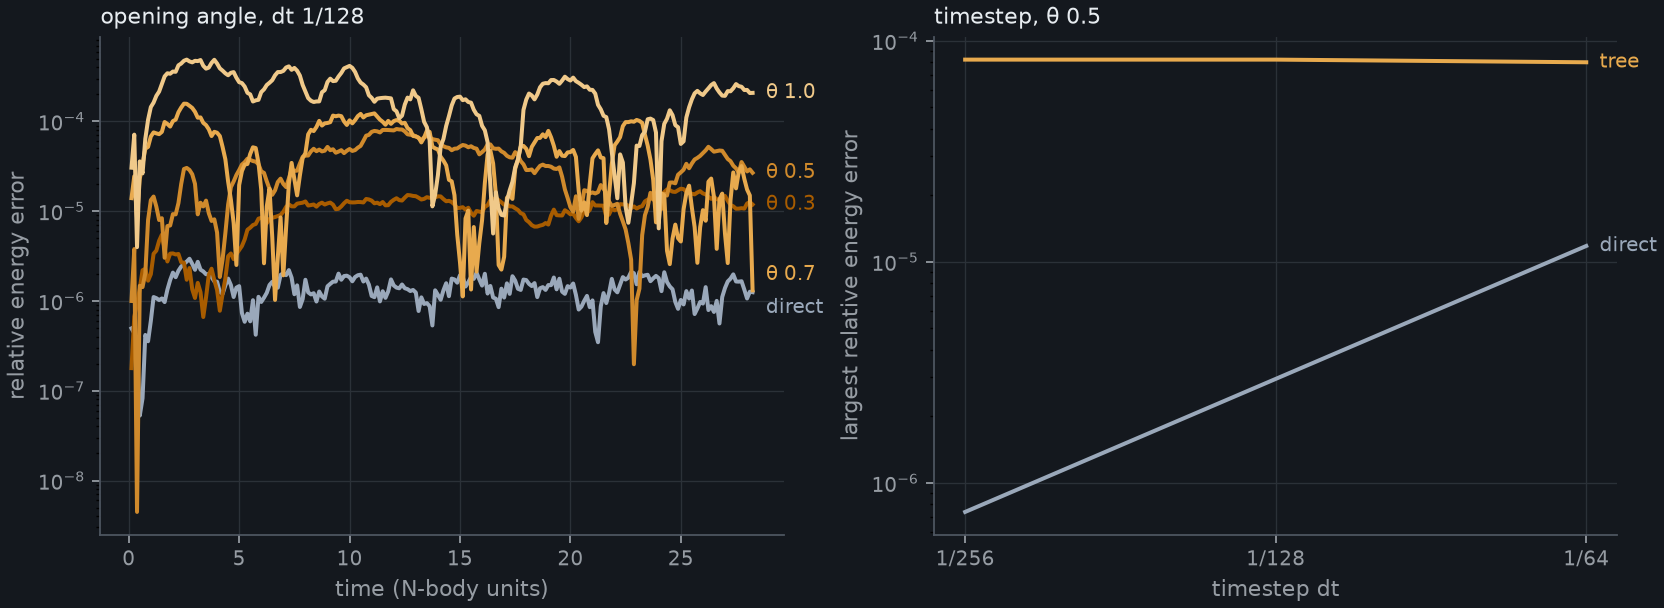
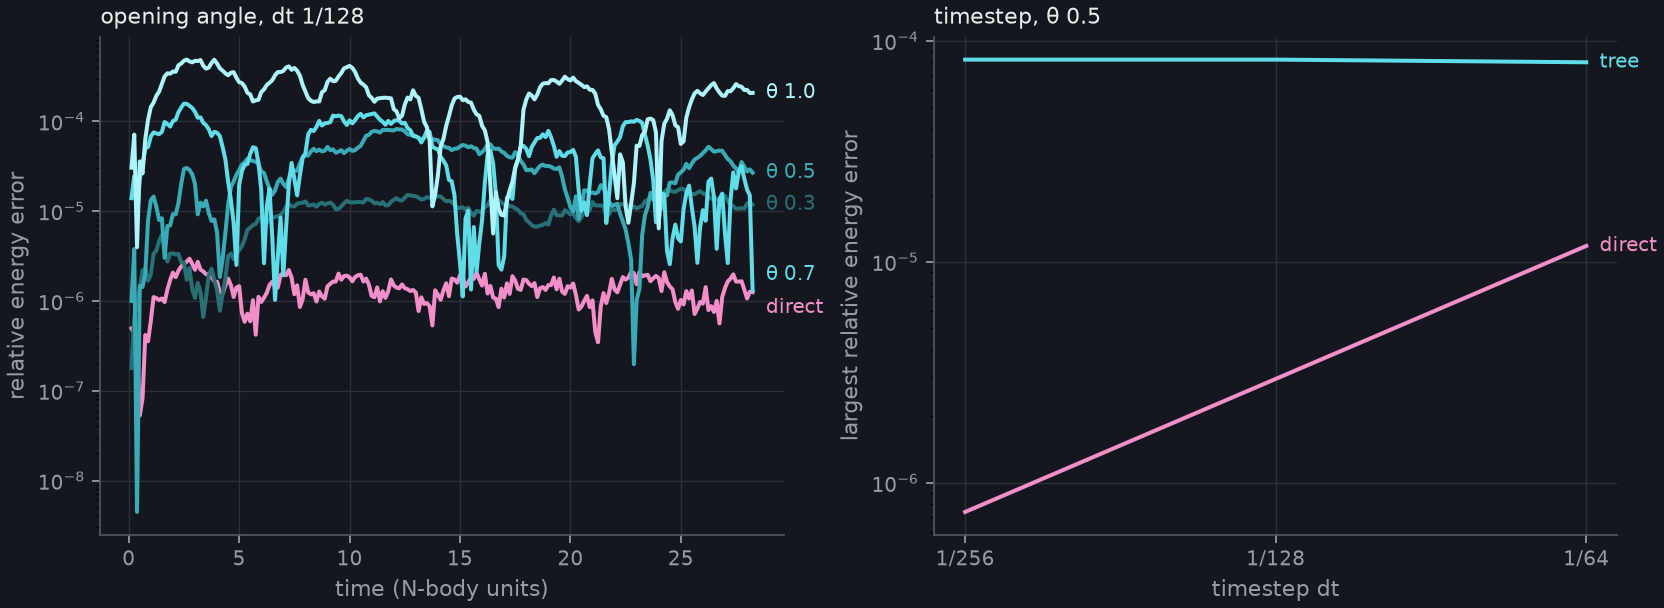
feat(plots): draw the figures in the channel colours
Tree is cyan and direct summation magenta, as hex values of the page's --tree-ink and --direct-ink in each scheme, so figures and page read as one.

diff --git a/scripts/plot_results.py b/scripts/plot_results.py
@@ -38,16 +38,17 @@ class Palette:
     thetas: tuple[str, str, str, str]
 
 
+# Tree and direct are the hex values of the page's --tree-ink and --direct-ink.
 LIGHT = Palette(
     page="#fbfcfd",
     ink="#131b26",
     ink_muted="#5c646e",
     grid="#dfe3e8",
     spine="#b9c0c8",
-    direct="#364355",
-    tree="#bd6700",
-    tree_soft="#e4b572",
-    thetas=("#e4b572", "#d08a2c", "#bd6700", "#8e4300"),
+    direct="#a12d79",
+    tree="#00697a",
+    tree_soft="#68abb6",
+    thetas=("#77bac6", "#3595a4", "#00697a", "#004551"),
 )
 DARK = Palette(
     page="#14181e",
@@ -55,10 +56,10 @@ DARK = Palette(
     ink_muted="#969ca3",
     grid="#2b3138",
     spine="#4e5661",
-    direct="#9aa8ba",
-    tree="#e8aa4e",
-    tree_soft="#a85c00",
-    thetas=("#a85c00", "#d08a2c", "#e8aa4e", "#f0c98a"),
+    direct="#f38ec9",
+    tree="#61dce9",
+    tree_soft="#286f76",
+    thetas=("#286f76", "#39aab6", "#61dce9", "#adf3fb"),
 )
 
 REFERENCE_COUNT = 65536
